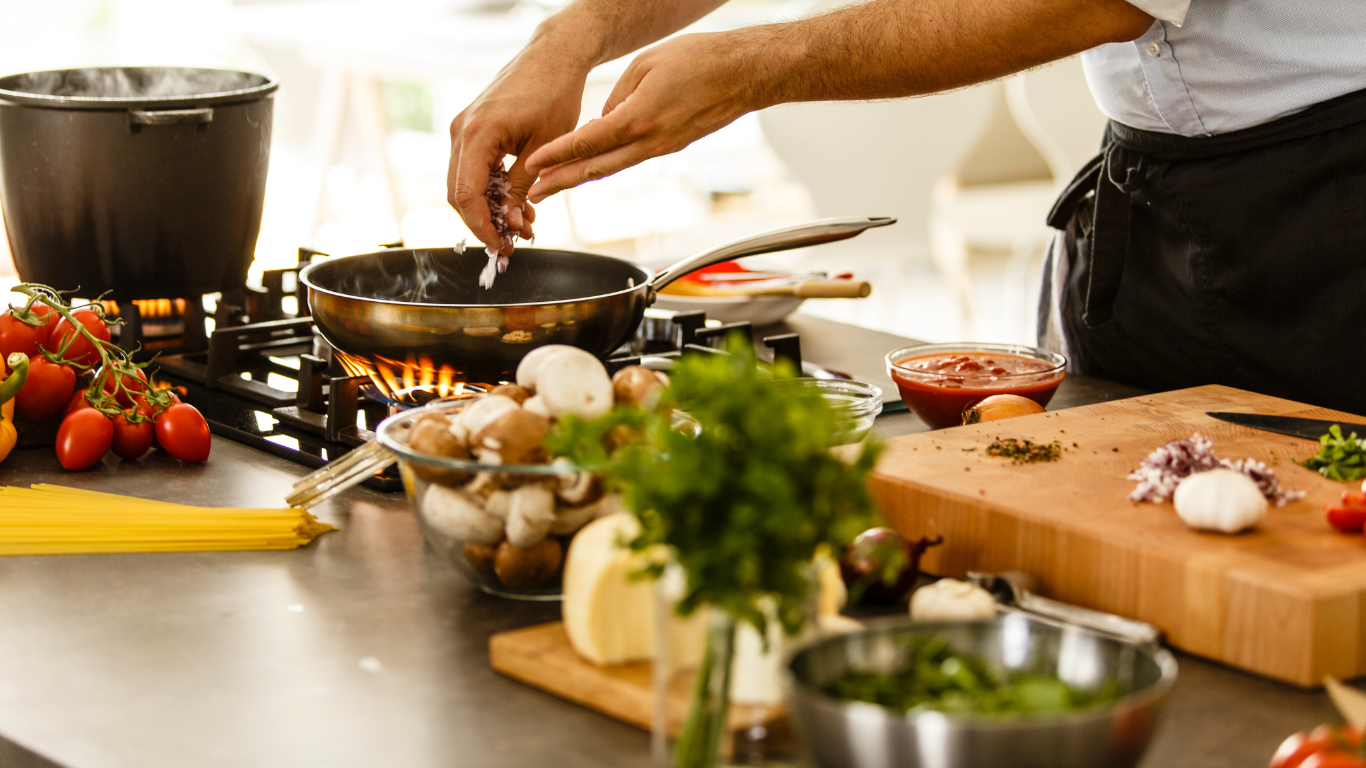
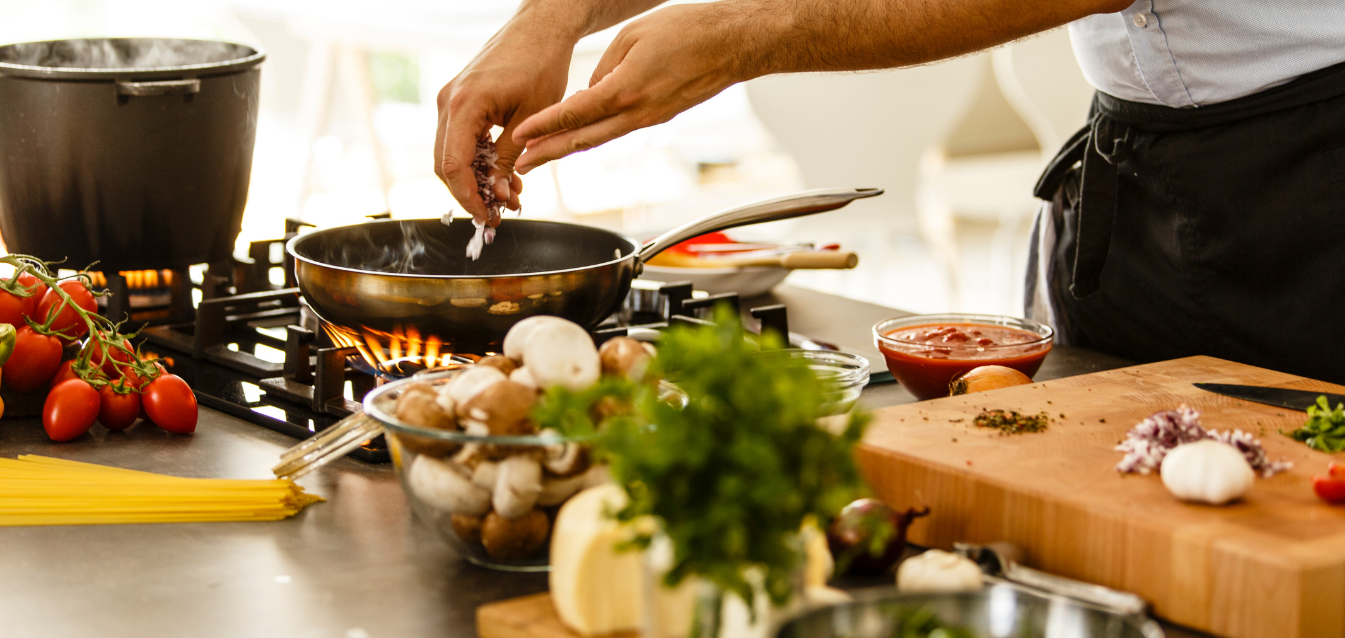
resized homepage images

diff --git a/index.html b/index.html
@@ -29,13 +29,13 @@
       <!-- Slides -->
       <div class="carousel-inner">
         <div class="carousel-item active">
-          <img src="assets/images/group cooking.png" alt="Image 1">
+          <img src="assets/images/Savoring the Day, One Recipe at a Time (2).png" alt="Image 1">
         </div>
         <div class="carousel-item">
-          <img src="assets/images/cooking hands.png" alt="Image 2">
+          <img src="assets/images/Savoring the Day, One Recipe at a Time (1).png" alt="Image 2">
         </div>
         <div class="carousel-item">
-          <img src="assets/images/food.png" alt="Image 3">
+          <img src="assets/images/Savoring the Day, One Recipe at a Time.png" alt="Image 3">
         </div>
       </div>
     
